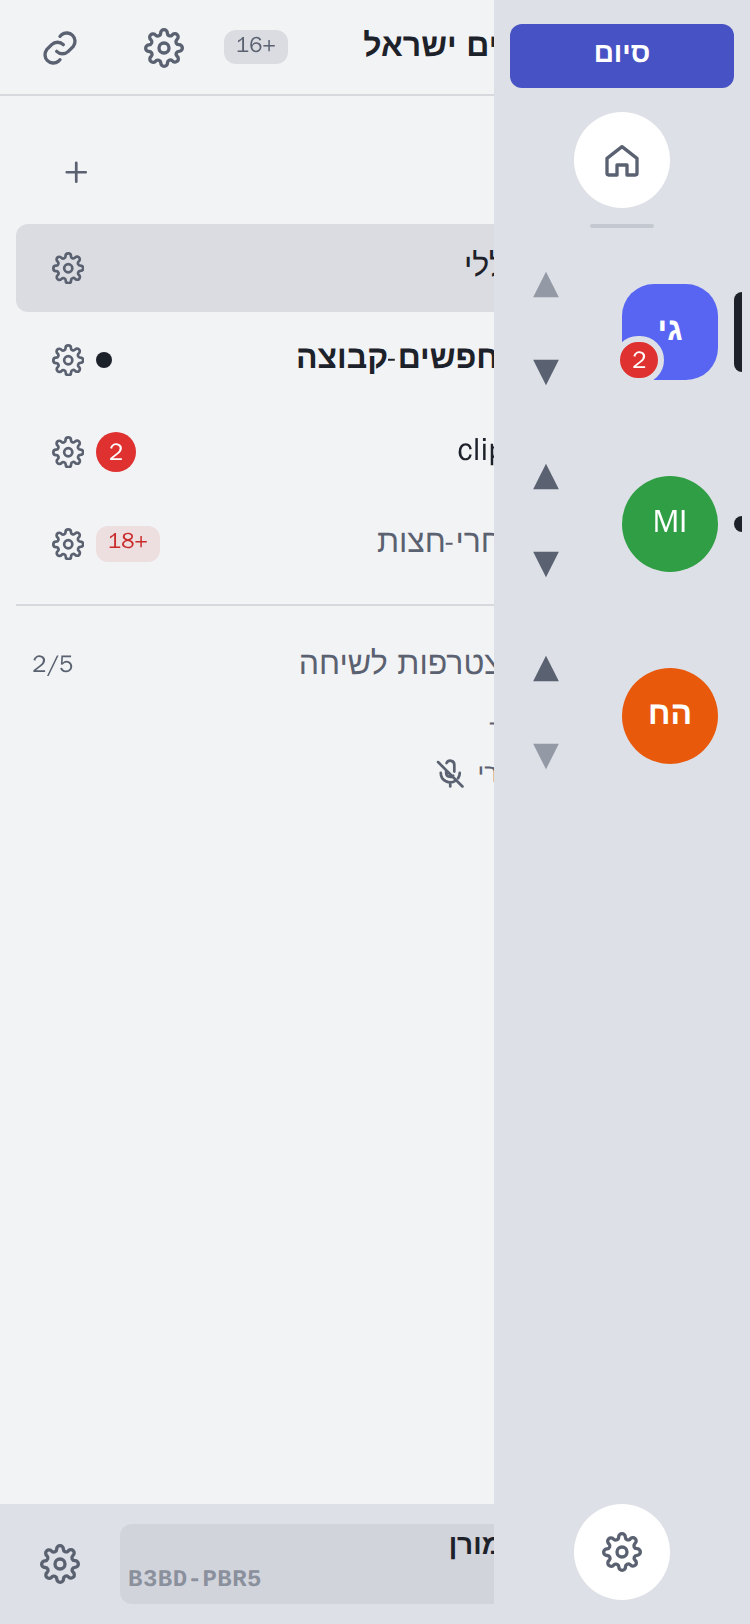
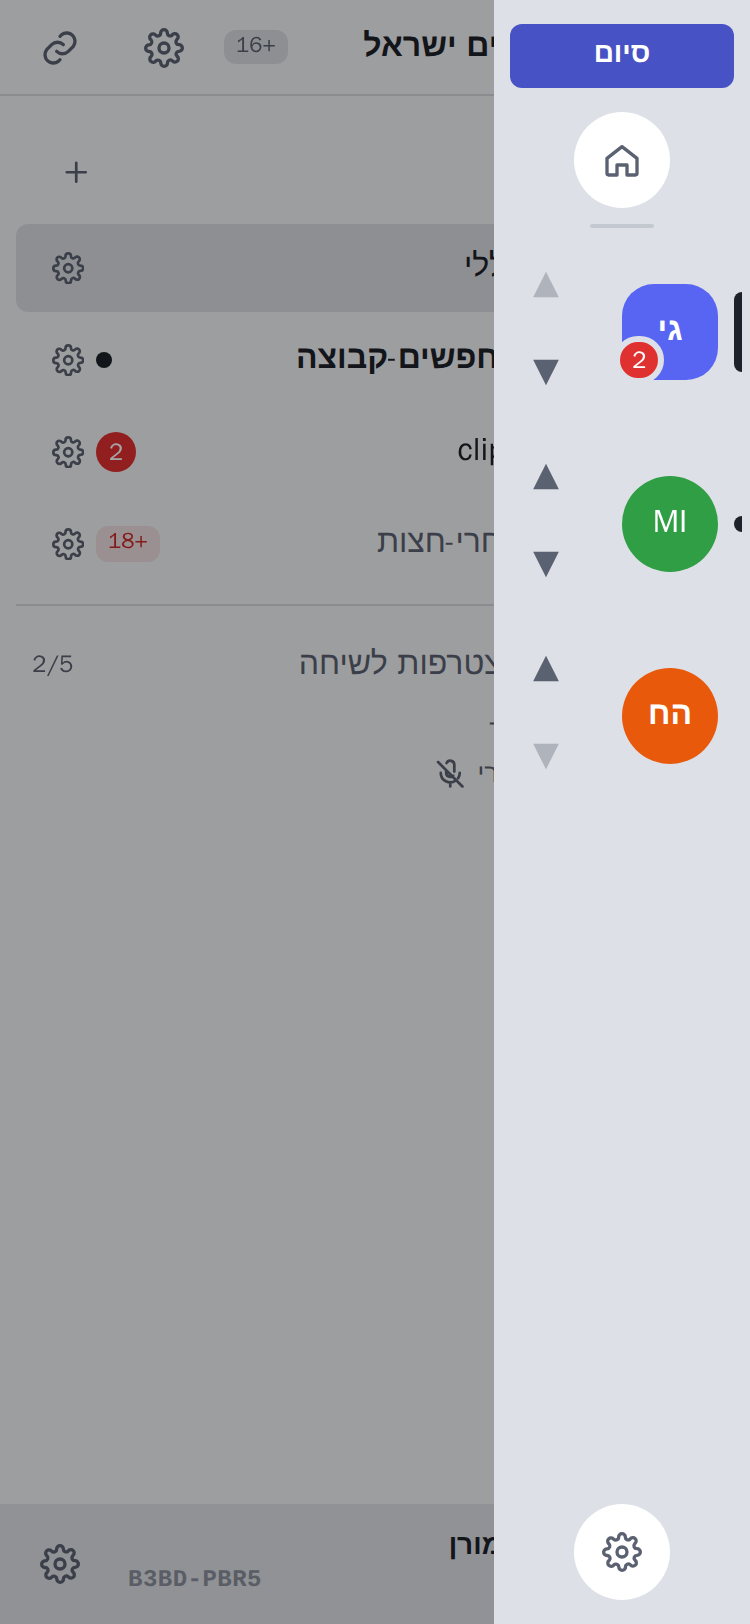
ui: arrange mode: phone backdrop behind the rail, aria-disabled end arrows (UX on #322); channel arrows on the row

diff --git a/ui/src/screens/shell/ServerRail.tsx b/ui/src/screens/shell/ServerRail.tsx
@@ -180,6 +180,9 @@ export function ServerRail({
   const dragged = dragging ? servers.find((s) => s.id === dragging.id) : undefined;
 
   return (
+    <>
+    {/* Phone: arrange mode widens the rail over the channel list; dim that (UX on #322). */}
+    {arranging && <div className="rail-arrange-backdrop" aria-hidden="true" onClick={() => setArranging(false)} />}
     <nav className={`rail ${arranging ? 'arranging' : ''} ${dragging ? 'dragging' : ''}`} aria-label={intl.formatMessage({ id: 'rail.label' })}>
       <span className="visually-hidden" aria-live="polite">
         {announce}
@@ -234,18 +237,18 @@ export function ServerRail({
                 <button
                   type="button"
                   className="icon-button"
-                  disabled={i === 0}
+                  aria-disabled={i === 0 || undefined}
                   aria-label={`${intl.formatMessage({ id: 'serverOrder.moveUp' })}: ${s.name}`}
-                  onClick={() => move(s.id, i - 1)}
+                  onClick={() => i > 0 && move(s.id, i - 1)}
                 >
                   ▲
                 </button>
                 <button
                   type="button"
                   className="icon-button"
-                  disabled={i === servers.length - 1}
+                  aria-disabled={i === servers.length - 1 || undefined}
                   aria-label={`${intl.formatMessage({ id: 'serverOrder.moveDown' })}: ${s.name}`}
-                  onClick={() => move(s.id, i + 1)}
+                  onClick={() => i < servers.length - 1 && move(s.id, i + 1)}
                 >
                   ▼
                 </button>
@@ -293,6 +296,7 @@ export function ServerRail({
       </div>
       {menu}
     </nav>
+    </>
   );
 }
 

diff --git a/ui/src/screens/shell/ChannelSidebar.tsx b/ui/src/screens/shell/ChannelSidebar.tsx
@@ -277,18 +277,18 @@ export function ChannelSidebar({
                     <button
                       type="button"
                       className="icon-button"
-                      disabled={i === 0}
+                      aria-disabled={i === 0 || undefined}
                       aria-label={`${intl.formatMessage({ id: 'channelOrder.moveUp' })}: ${c.name}`}
-                      onClick={() => moveChannel(c, i - 1)}
+                      onClick={() => i > 0 && moveChannel(c, i - 1)}
                     >
                       ▲
                     </button>
                     <button
                       type="button"
                       className="icon-button"
-                      disabled={i === channels.length - 1}
+                      aria-disabled={i === channels.length - 1 || undefined}
                       aria-label={`${intl.formatMessage({ id: 'channelOrder.moveDown' })}: ${c.name}`}
-                      onClick={() => moveChannel(c, i + 1)}
+                      onClick={() => i < channels.length - 1 && moveChannel(c, i + 1)}
                     >
                       ▼
                     </button>

diff --git a/ui/src/styles/app.css b/ui/src/styles/app.css
@@ -2912,7 +2912,7 @@ input.switch:disabled {
 
 .channel-handle {
   position: absolute;
-  inset-inline-start: -0.875rem;
+  inset-inline-start: -0.5rem;
   inset-block-start: 50%;
   translate: 0 -50%;
   width: 1rem;
@@ -2968,4 +2968,30 @@ input.switch:disabled {
 
 .channel-arrange-done {
   margin: 0 0.5rem 0.5rem;
+}
+
+/* Arrange mode (G-01, G-11): an arrow that can't move further stays 44px and focusable. */
+.rail-arrange .icon-button[aria-disabled='true'],
+.channel-arrange .icon-button[aria-disabled='true'] {
+  opacity: 0.35;
+  cursor: default;
+}
+
+/* Phone: behind the widened rail while arranging (UX on #322). */
+.rail-arrange-backdrop {
+  position: fixed;
+  inset: 0;
+  z-index: 4;
+  background: rgb(0 0 0 / 0.35);
+}
+
+/* Arrange mode: the arrows sit on the channel's own row. */
+.channel-row:has(.channel-arrange) {
+  display: flex;
+  align-items: center;
+}
+
+.channel-row:has(.channel-arrange) .channel {
+  flex: 1;
+  min-width: 0;
 }

diff --git a/ui/src/test/serverOrder.test.tsx b/ui/src/test/serverOrder.test.tsx
@@ -108,7 +108,7 @@ describe('server order in the rail (G-01)', () => {
       fireEvent.click(screen.getByRole('menuitem', { name: 'Arrange servers' }));
     });
     const nav = rail();
-    expect(within(nav).getByRole('button', { name: `Move up: ${before[0]}` }).hasAttribute('disabled')).toBe(true);
+    expect(within(nav).getByRole('button', { name: `Move up: ${before[0]}` }).getAttribute('aria-disabled')).toBe('true'); // stays focusable (UX)
     await act(async () => {
       fireEvent.click(within(nav).getByRole('button', { name: `Move down: ${before[0]}` }));
     });
